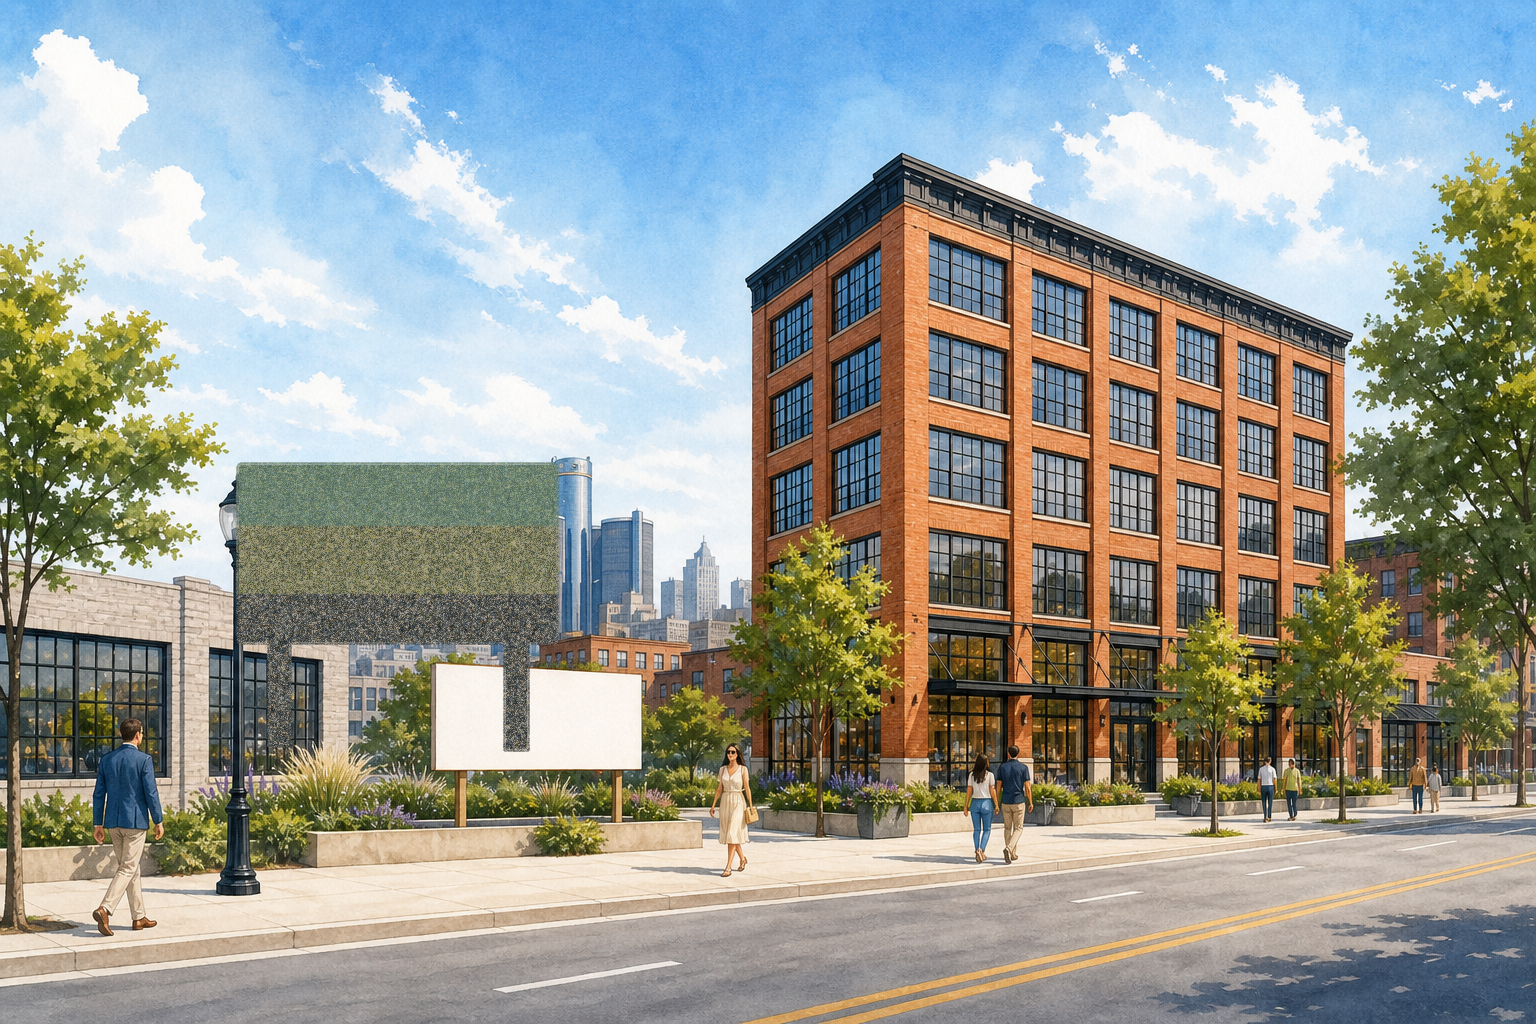
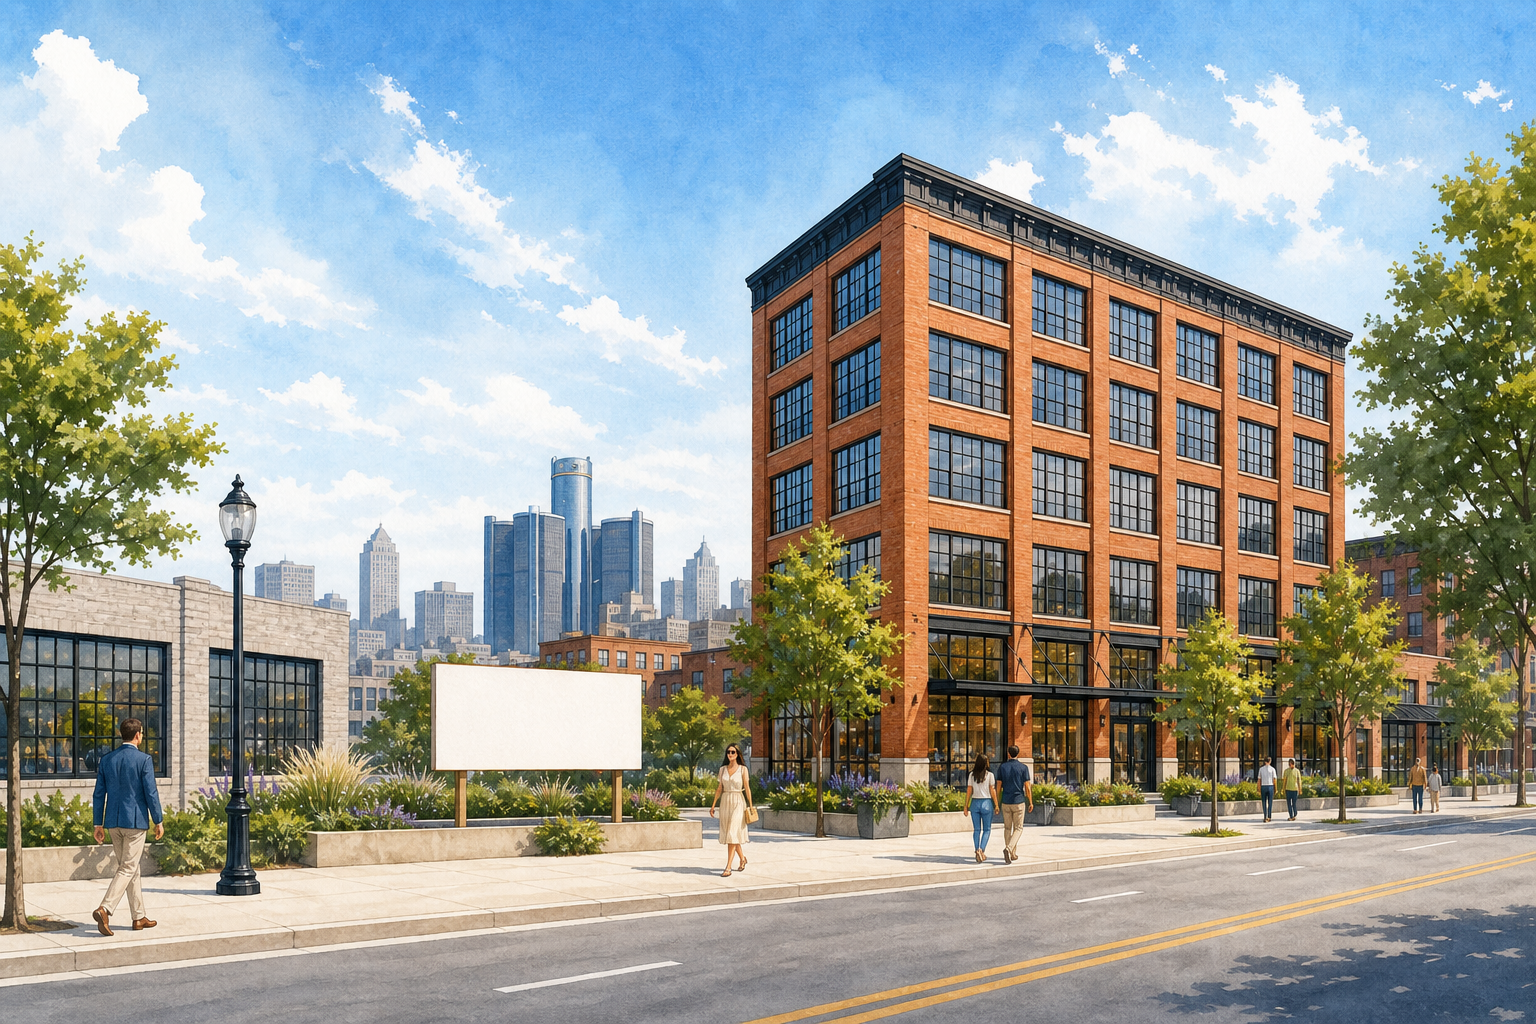
Crop the hero so the billboard is off-screen. (#10)
Restore the original full-resolution Detroit PNG and hide the
lower-left board with background-size and background-position
per breakpoint. The brick loft stays in frame. No image surgery,
no painted patch, walkers stay gone.

Changed region(s): [[0.1562, 0.4375, 0.375, 0.75]]

diff --git a/scripts/test.js b/scripts/test.js
@@ -747,9 +747,10 @@ main().catch(async (err) => {
   const fsx = await import('node:fs');
   const landing = fsx.readFileSync(new URL('../public/index.html', import.meta.url), 'utf8');
   const heroPath = new URL('../public/hero-detroit.png', import.meta.url);
-  check('hero illustration is a real image in public/', fsx.existsSync(heroPath) && fsx.statSync(heroPath).size > 500_000);
+  check('hero illustration is a real image in public/', fsx.existsSync(heroPath) && fsx.statSync(heroPath).size > 3_100_000);
   check('homepage uses the full-resolution Detroit PNG', /hero-detroit\.png/.test(landing) && !/hero-detroit\.jpg/.test(landing));
-  check('hero is a CSS cover background, not a pixelated or srcset image', /background-size:\s*cover/.test(landing) && !/image-rendering:\s*pixelated/.test(landing) && !/srcset/.test(landing));
+  check('hero is a CSS cover background, not a pixelated or srcset image', /background-size:\s*cover/.test(landing) && /background-size:\s*175%\s*auto/.test(landing) && !/image-rendering:\s*pixelated/.test(landing) && !/srcset/.test(landing));
+  check('hero crops the lower-left billboard via position and size, not a painted patch', /background-position:\s*100%\s*42%/.test(landing) && /background-size:\s*175%\s*auto/.test(landing) && !/street-patch/.test(landing));
   check('first viewport is the full-bleed street, not a boxed hero', /class="street"/.test(landing) && /class="street-art"/.test(landing) && !/<figure class="hero-art">/.test(landing));
   check('painting is not a fixed backdrop under the whole page', !/class="scene"/.test(landing) && !/\.scene\s*\{[^}]*position:\s*fixed/.test(landing));
   check('type sits in the open sky, not over the brick loft', /class="sky-copy"/.test(landing) && /width:\s*min\(22rem,\s*40%\)/.test(landing));

diff --git a/public/index.html b/public/index.html
@@ -41,8 +41,8 @@
     position: absolute; inset: 0;
     background-color: #D6E6F5;
     background-image: url("/hero-detroit.png");
-    background-size: cover;
-    background-position: 70% 42%;
+    background-size: 175% auto;
+    background-position: 100% 42%;
     background-repeat: no-repeat;
     image-rendering: auto;
   }
@@ -196,10 +196,19 @@
   }
   .auth-tabs button.on { color: #2B2B2B; border-bottom-color: #2B2B2B; }
 
+  @media (max-width: 1200px) {
+    .street-art {
+      background-size: 165% auto;
+      background-position: 100% 44%;
+    }
+  }
   @media (max-width: 860px) {
     .nav-wide { display: none !important; }
     header a, header button { min-height: 44px; }
-    .street-art { background-position: 88% 48%; }
+    .street-art {
+      background-size: cover;
+      background-position: 90% 28%;
+    }
     .sky-copy { width: min(20rem, 90%); padding: 4px 20px 0; }
     .beats, .prices { grid-template-columns: 1fr; }
   }
